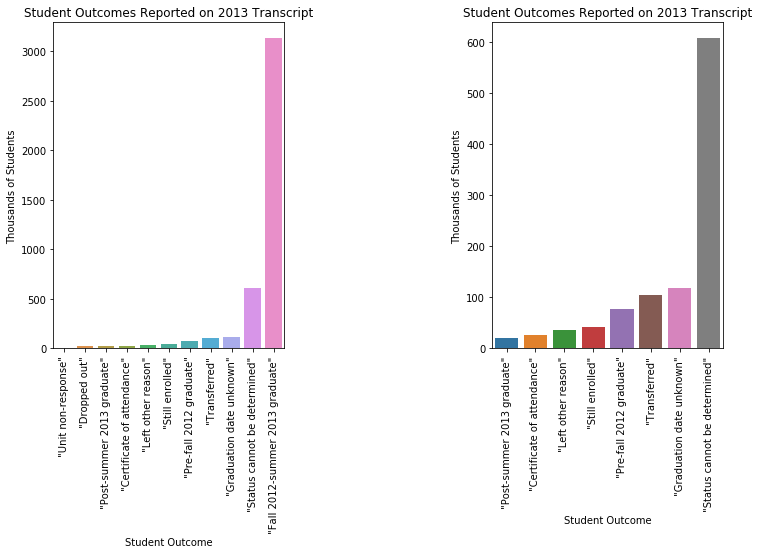
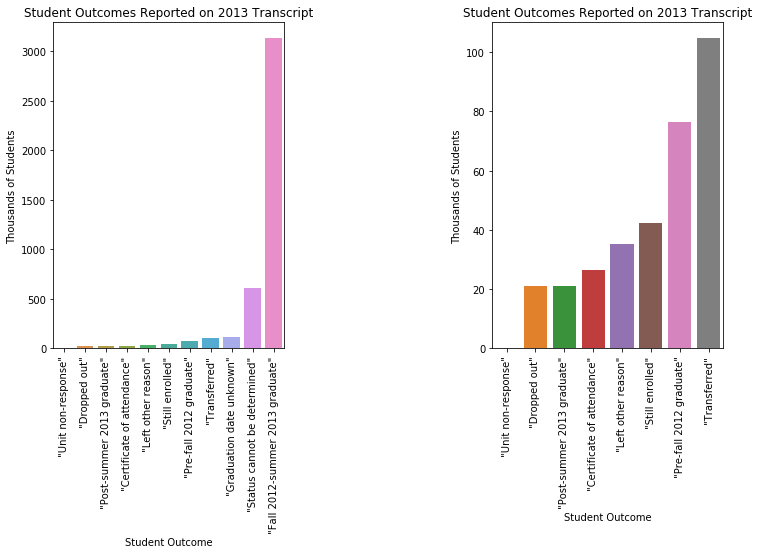
Add files via upload

diff --git a/_portfolio/SO_EDA/SO_EDA.md b/_portfolio/SO_EDA/SO_EDA.md
@@ -1,7 +1,4 @@
----
-layout: post
-title: Student Outcomes - Exploratory Data Analysis
----
+
 ## Exploratory Data Analysis
 
 Questions to answer:
@@ -130,7 +127,7 @@ ax1 = ax1.set(title='Student Outcomes Reported on 2013 Transcript',
        xlabel='Student Outcome',
        ylabel='Thousands of Students')
 
-keep_cats = [2,3,4,5,6,7,8,9]
+keep_cats = [0,1,2,3,4,5,6,7]
 ax2 = fig.add_subplot(1,2,2)
 ax2 = sns.barplot(x='category',y='estimate',data = df_temp.iloc[keep_cats,:])
 for item in ax2.get_xticklabels():
@@ -143,12 +140,14 @@ plt.show()
 ```
 
 
-![alt text](https://raw.githubusercontent.com/cemalec/cemalec.github.io/master/_portfolio/SO_EDA/output_9_0.png "Figure 1")
+![png](output_9_0.png)
+
+
 ## What do students believe their educational attainment will be?
 
 Belief is a powerful thing. Believing you will succeed is not sufficient to success, but it is necessary. Here we see that the number of students who believe that they will complete 'less than high school' is tiny, much smaller than the 'dropped out' count. A great number are under 'don't know', which is a reasonable response for someone who is 14-15. This says to me that students generally do not plan on dropping out.
 
-I also see that most people really believe in their own follow-through, as 'start a(n) X degree' are all much lower counts than 'finish a(n) X degree'.
+I also see that most people really believe in their own follow-through, as 'start a(n) X degree' are all much lower counts than 'finish a(n) X degree'. The red line is the number of students who dropped out.
 
 
 ```python
@@ -161,6 +160,7 @@ for item in ax1.get_xticklabels():
 ax1 = ax1.set(title='Student Expected Outcomes',
        xlabel='Student Outcome',
        ylabel='Thousands of Students')
+plt.axhline(y = 20,color = 'red')
 plt.show()
 ```
 
